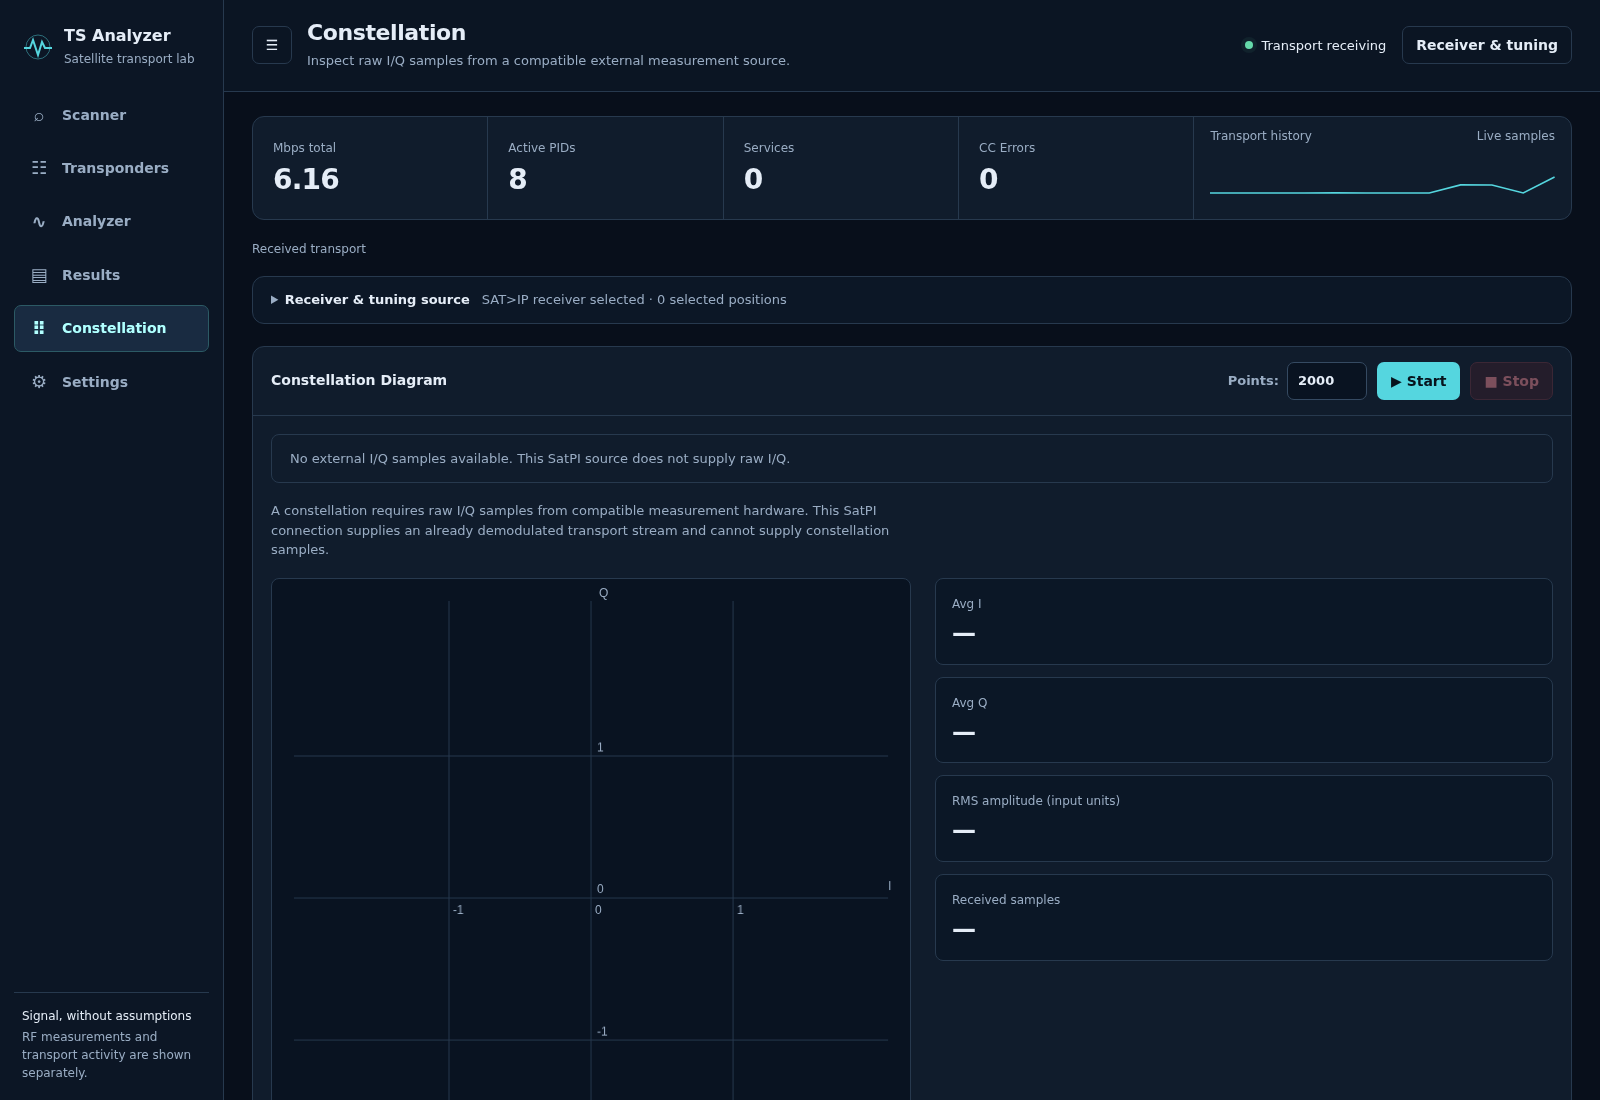
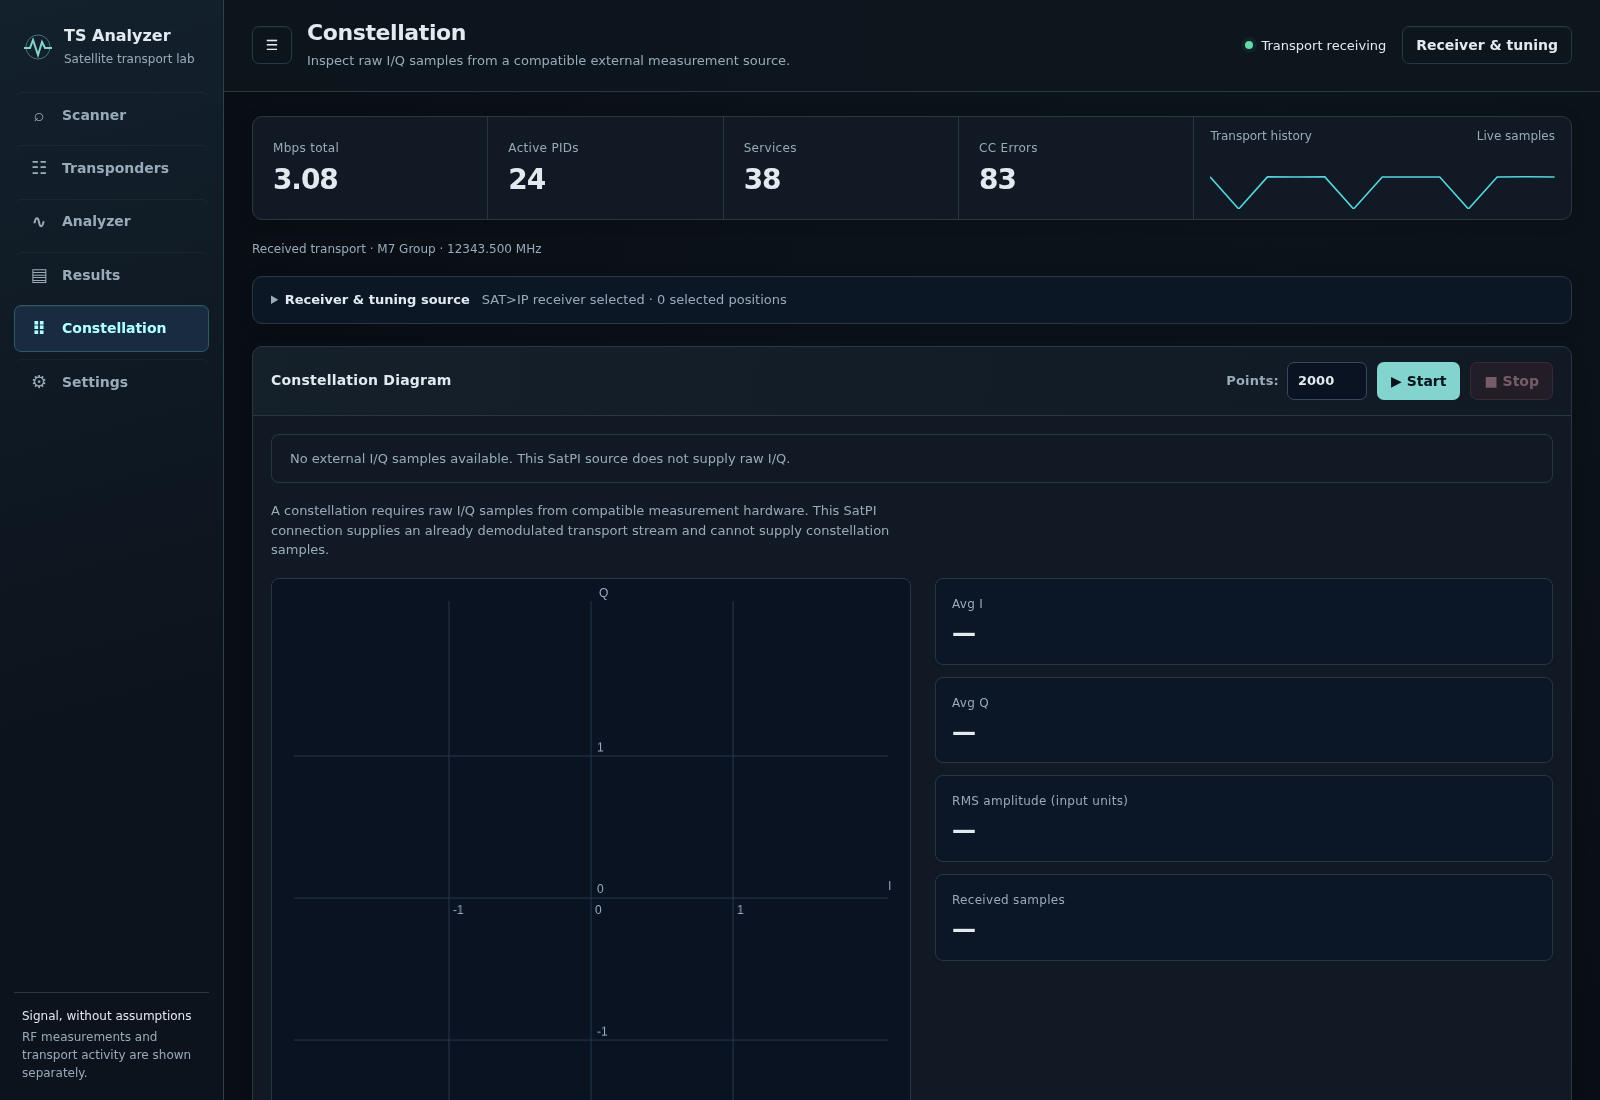
Present refreshed desktop and mobile screenshots from real satellite reception

diff --git a/README.md b/README.md
@@ -4,7 +4,7 @@
 
 A television stream can look unstable for several different reasons: reception, tuning, transport errors or the content being carried. TS Analyzer brings those checks into one browser workspace, helping an operator move from choosing a satellite source to inspecting the arriving stream and retaining useful findings.
 
-The workspace keeps reception measurements separate from transport activity. An arriving stream does not automatically mean good radio reception, and an unavailable measurement stays unavailable. The featured capture shows an actual current-TV transport stream with the receiver's real SNR, AGC and error readings.
+The workspace keeps reception measurements separate from transport activity. An arriving stream does not automatically mean good radio reception, and an unavailable measurement stays unavailable. The featured capture shows a real SAT>IP stream from 23.5°E, with live receiver measurements, decoded services and arriving PIDs.
 
 ## Tech stack
 
@@ -18,15 +18,23 @@ Discover a SAT>IP receiver or choose one manually, then prepare the satellite po
 
 Start a full scan or check an individual transponder. Progress, lock observations and decoded channel names help narrow the next step. Stop controls make the investigation deliberate, and reconnecting to the workspace preserves the current scan's visible progress.
 
+![Satellite source selection and scan workspace in the running application](assets/scanner-workspace.png)
+
+The transponder workspace brings tuning entries into a searchable table. Review a source's frequency and reception settings together before choosing what to inspect next.
+
+![Transponder workspace in the running application](assets/transponder-workspace.png)
+
 ## Inspect the scan results
 
 The results workspace collects transponder observations, television services and radio services for later review. Filters help find a position or channel without reading every row. Available programme information adds context when the incoming stream carries it; missing tables do not turn into invented service names.
 
 Saved findings can be loaded again, edited and exported as JSON for further analysis. The same workspace supports moving from a result into a closer transport inspection without re-entering its tuning details.
 
+![Results workspace in the running application](assets/results-workspace.png)
+
 ## Examine the transport stream
 
-On an Enigma2 receiver, **Analyze current TV** inspects the programme already being watched without changing the TV channel. Start or stop this input directly in the workspace. If the TV channel changes, analysis stops until started again. This provides a practical single-programme view; scanning a complete satellite transponder uses the separate SAT>IP input.
+On an Enigma2 receiver, **Analyze current TV** inspects the programme already being watched without changing the TV channel. Start or stop this input directly in the workspace. If the TV channel changes, analysis stops until started again. This provides a practical single-programme view. The separate SAT>IP input inspects a selected transponder; the services and PIDs available for analysis depend on what the receiver actually supplies.
 
 Bring bitrate, active PIDs, continuity errors and timing observations together. The PID table shows the kinds of video, audio, signalling and other data actually being received. Service and programme details give those readings their content context when present in the source.
 
@@ -48,9 +56,17 @@ A standard SatPI transport stream does not provide the raw I/Q needed for this v
 
 ## Work in a window that fits
 
-Collapsible navigation and receiver controls leave more room for the measurements. The workspace adapts to desktop, tablet and narrow windows, while wide tables scroll within their own area. Source selection and settings remain close to the analysis without permanently taking over the screen.
+Collapsible navigation and receiver controls leave more room for the measurements. The workspace adapts to desktop, tablet and narrow windows. Dense tables become labelled rows when the panel is too narrow, keeping the same fields readable. Source selection and settings remain close to the analysis without permanently taking over the screen.
+
+On a narrow screen, reception status and tuning controls stack above the stream details. Each PID retains its type, name, bitrate and error count in a readable vertical layout.
+
+<img src="assets/analyzer-mobile.png" alt="Live analyzer status and receiver measurements on a narrow screen" width="390">
+
+<img src="assets/pids-mobile.png" alt="Live PID analysis with labelled fields on a narrow screen" width="390">
 
 Settings select the analyzer's input. Local DVB tuning is not currently implemented; the interface makes that limitation explicit instead of silently treating it as a network receiver.
+
+![Input and analysis settings in the running application](assets/settings-workspace.png)
 
 ---
 
